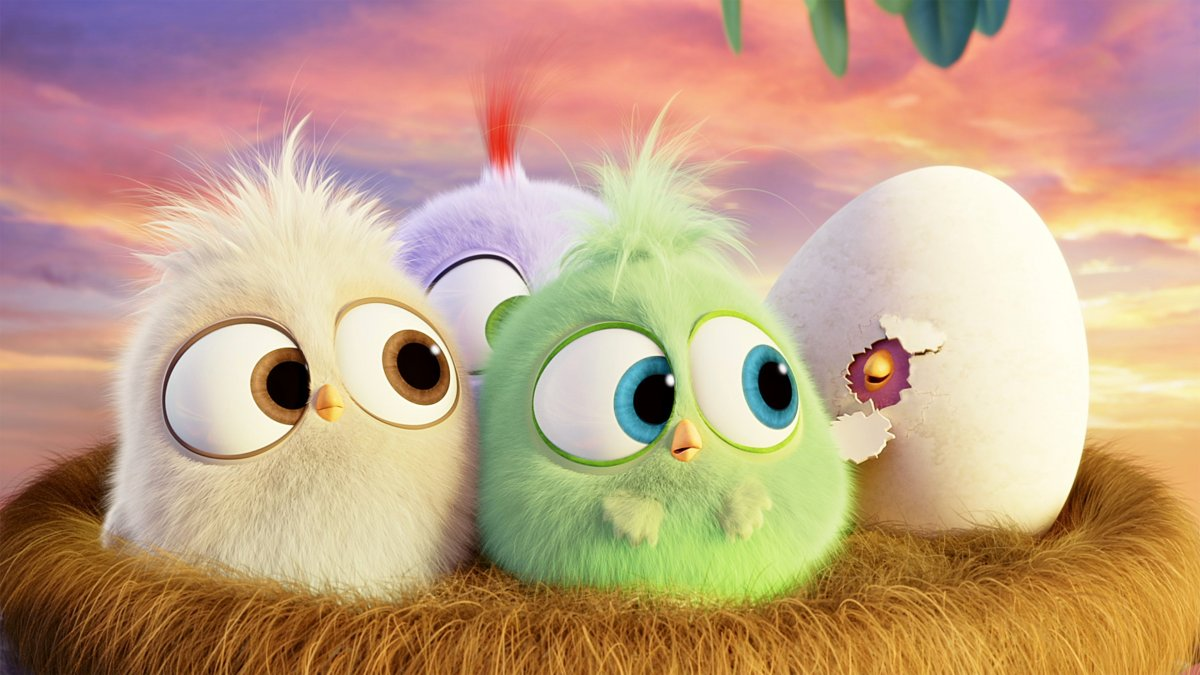
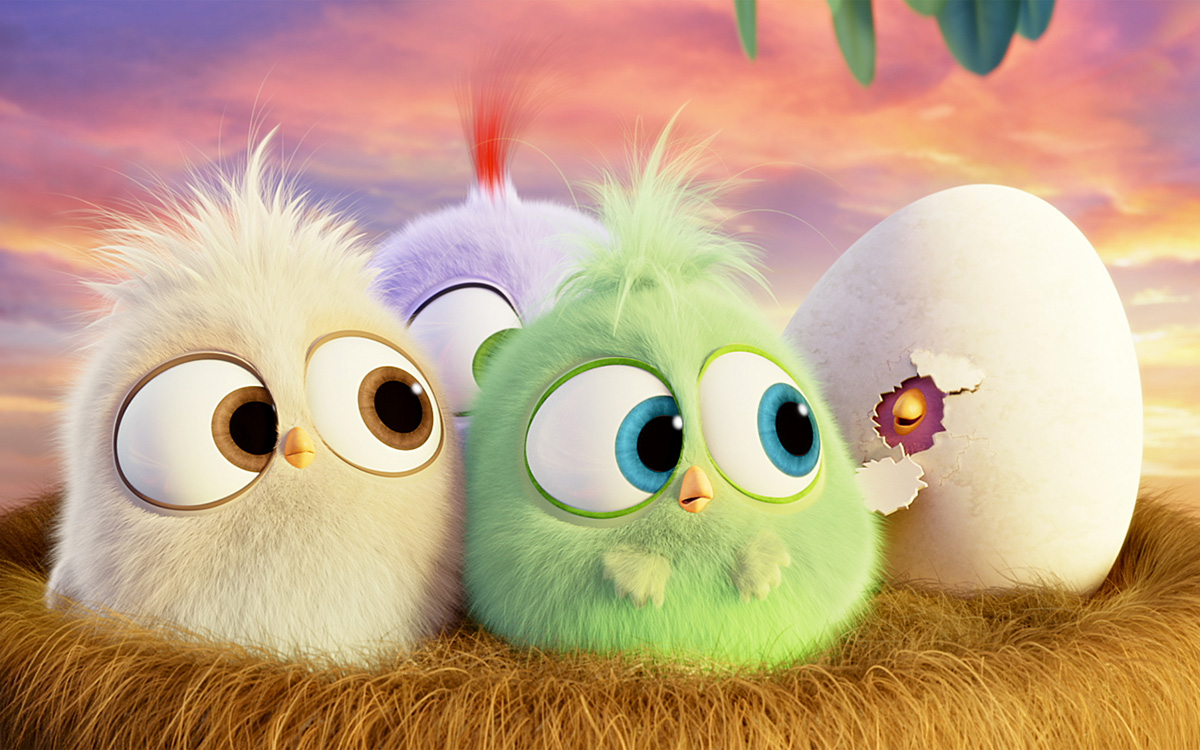
feat: implement slider & replace 1 image (Sut, Sep 16, 2023 2:14:37 PM)

diff --git a/cssMemeSlider/style.css b/cssMemeSlider/style.css
@@ -8,9 +8,10 @@ html {
     scroll-behavior: smooth; 
 }
 
-body {    
+body {   
+    max-width: 100rem; 
     margin: 0 auto;     
-    background-color: #aeaec9;
+    background-color: #67678d;
 }
 
 
@@ -18,112 +19,217 @@ body {
     display: flex;
     flex-direction: column;
     justify-content: space-between;
-    column-gap: 5vh;
+    gap: 2vh;
     margin: 0 auto;
-    width: 100vw;
+    width: 95%;
     height: 100vh;
-    background-color: rgb(186, 199, 161);
+    
+    
+    overflow: hidden;
 }
 
 h1 {
     font-family: 'Forum';
-    font-size: 3rem;
-    line-height: 5rem;
-    letter-spacing: 0.15rem;
+    font-size: 3vh;
+    
+    letter-spacing: 0.15vh;
     font-style: normal;
     font-weight: 700;
     text-align: center;
-    color: #ffffff; 
+    color: whitesmoke; 
+    margin-top: 2vh;
 }
 
 .images {
+    display: flex;
+    align-items: center;
     margin: 0 auto;
-    width: 95vw;
-    height: 80vh;
-    margin: 5vh auto;
-    background-color: rgb(159, 172, 49);
-    border-radius: 2rem;
+    width: 400%;
+    
+    margin: 0 auto;
+    background-color: #67678d;
+    border-radius: 1.5vh;
 }
 
-
-
-#slide_1 {
-    background-color: #BB945F;
+.slide {
+    width: 25%;
+    object-fit: cover;
+    transition: all 0.7s ease;
+  }
+  
+.slider_choice {
     width: 100%;
-    height: 100%;
+    display: flex;
+    justify-content: space-between;
+    align-items: center;
+    gap: 3vh;
+    padding-bottom: 2vh;
+}  
+
+.slider_text {
+    width: 60%;
+    align-items: start;
+    overflow: hidden;
 }
 
-#slide_2 {
-    background-color: #96d1e2;
+.text_container {
+    display: flex;
+    width: 400%;
+}
+
+.text {
+    width: 25%;
+    margin: 0;
+    padding-left: 1rem;
+    font-family: 'Forum';
+    
+    font-size: 2.5vh;
+    line-height: 4vh;
+    letter-spacing: 0.15vh;
+    font-style: normal;
+    font-weight: 700;
+    
+    color: whitesmoke; 
+    transition: all 0.7s ease;
+}
+
+.switchOn {
+    display: flex;
+}
+
+input[name="radio"] {
+    display: none;
+  }
+
+  label {
+    display: flex;
+    justify-content: center;
+    align-items: center;
+    width: 4vh;
+    height: 4vh;
+    cursor: pointer;
+  }
+
+  .point {
+    width: 2.5vh;
+    height: 2.5vh;     
+    border: 0.5vh solid #2f2f3f;
+    border-radius: 50%;
+    background-color: #2f2f3f;
+    transition: all 0.7s ease;
+    cursor: pointer;
+  }
+
+  .point:hover {
+    border: 0.2vh;
+    background: #9f9fcc;
+    
+  }
+    
+  
+
+  #choice_1:checked ~ .images .slide_1,
+  #choice_1:checked ~ .slider_choice .text_1 {
+    margin-left: 0;
+  }
+
+  #choice_2:checked ~ .images .slide_1,
+  #choice_2:checked ~ .slider_choice .text_1 {
+    margin-left: -25%;
+  }
+
+  #choice_3:checked ~ .images .slide_1,
+  #choice_3:checked ~ .slider_choice .text_1 {
+    margin-left: -50%;
+  }
+
+  #choice_4:checked ~ .images .slide_1,
+  #choice_4:checked ~ .slider_choice .text_1 {
+    margin-left: -75%;
+  }
+
+  #choice_1:checked ~ .slider_choice label[for="choice_1"] .point,
+  #choice_2:checked ~ .slider_choice label[for="choice_2"] .point,
+  #choice_3:checked ~ .slider_choice label[for="choice_3"] .point,
+  #choice_4:checked ~ .slider_choice label[for="choice_4"] .point {
+    background: whitesmoke;
+    border: whitesmoke;
+  }
+  
+
+
+
+/*-----
+@media (max-width: 768px) {
+  .slider {
+    width: 90%;
+  }
+
+  .slides-wrapper {
+    flex-direction: column-reverse;
+    gap: 1rem;
+  }
+
+  .slider-titles {
     width: 100%;
-    height: 100%;
+  }
+
+
+  .dot {
+    width: 0.8rem;
+    height: 0.8rem;
+  }
 }
 
-#slide_3 {
+
+@media (max-width: 540px) {
+  h1 {
+    font-size: 1.5rem;
+    margin: 1.5rem 0;
+  }
+
+  .title {
+    font-size: 1.1rem;
+  }
+
+  label {
+    width: 2rem;
+    height: 2rem;
+  }
+
+  .dot {
+    width: 0.6rem;
+    height: 0.6rem;
+  }
+}
+@media (max-width: 450px) {
+  h1 {
+    font-size: 1.1rem;
+    margin: 1.1rem 0;
+  }
+}
+---*/
+
+#slide_125 {
+    background-color: #BB945F;   
+    background-color: #96d1e2; 
     background-color: #d396e2;
-    width: 100%;
-    height: 100%;
-}
-
-#slide_4 {
     background-color: #e296a9;
+    background-color: coral;
     width: 100%;
     height: 100%;
 }
 
 
-.rest {
+.rest12 {
     display: flex;
     justify-content: space-between;
     width: 95vw;
     height: 15vh;
-    margin: 5vh auto;
-    background-color: coral;
-}
-
-.text {
-    margin: 0;
-    padding-left: 1rem;
-    font-family: 'Forum';
-    flex-grow: 1;
-    font-size: 2rem;
-    line-height: 6rem;
-    letter-spacing: 0.15rem;
-    font-style: normal;
-    font-weight: 700;
-    text-align: left;
-    color: #ffffff; 
+    margin: 5vh auto;    
 }
 
 
-.switch {
-    display: flex;
-    justify-content: center;
-    margin: 0 auto ;
-}
-
-.switch1 {
-    display: flex;
-    width: 6rem;
-    height: 6rem;   
-    cursor: pointer;       
-}
-
-.switch11 {
-    margin: auto;
-    width: 2rem;
-    height: 2rem;
-    border-radius: 50%;    
-    border: 1rem solid #BB945F;    
-}
-
-.switch12 {
-    margin: auto;
-    width: 2rem;
-    height: 2rem;
-    border-radius: 50%;    
-    border: 1rem solid #0C0C0E;    
-}
 
 
 

diff --git a/cssMemeSlider/index.html b/cssMemeSlider/index.html
@@ -11,44 +11,44 @@
 </head>
 <body> 
     <div class="container">
-        <h1>Любимые герои ждут тебя!</h1>
+        <h1>Your Favourite Heroes</h1>
 
-        <input type="radio" name="radio" id="choice-1" checked>
-        <input type="radio" name="radio" id="choice-2" checked>
-        <input type="radio" name="radio" id="choice-3" checked>
-        <input type="radio" name="radio" id="choice-4" checked>
+        <input type="radio" name="radio" id="choice_1" checked>
+        <input type="radio" name="radio" id="choice_2" checked>
+        <input type="radio" name="radio" id="choice_3" checked>
+        <input type="radio" name="radio" id="choice_4" checked>
 
         <div class="images">
-            <img src="assets/slide1.jpg" alt="AngryBirds" class="slide slide_1">
+            <img src="assets/slide1.jpg" alt="AngryBirds" class="slide slide_1" width="80vw">
             <img src="assets/slide2.jpg" alt="Pinguins" class="slide slide_2">
             <img src="assets/slide3.jpg" alt="Madagaskar" class="slide slide_3">
             <img src="assets/slide4.jpg" alt="Rio" class="slide slide_4">            
         </div>  
 
 
-        <div class="rest">
+        <div class="slider_choice">
 
             <div class="slider_text">
                 <div class="text_container">
-                    <p id="text_1">Angry Birds</p>
-                    <p id="text_2">Penguins of Madagascar</p>
-                    <p id="text_3">Madagascar: Escape 2 Africa</p>
-                    <p id="text_4">Rio</p>
+                    <p class="text text_1">Angry Birds</p>
+                    <p class="text">Penguins of Madagascar</p>
+                    <p class="text">Madagascar: Escape 2 Africa</p>
+                    <p class="text">Rio</p>
                 </div>
             </div>
             
 
             <div class="switchOn">
-                <label for="choice-1">
+                <label for="choice_1">
                     <span class="point"></span>
                 </label>
-                <label for="choice-2">
+                <label for="choice_2">
                     <span class="point"></span>
                 </label>
-                <label for="choice-3">
+                <label for="choice_3">
                     <span class="point"></span>
                 </label>
-                <label for="choice-4">
+                <label for="choice_4">
                     <span class="point"></span>
                 </label>
             </div>                      
